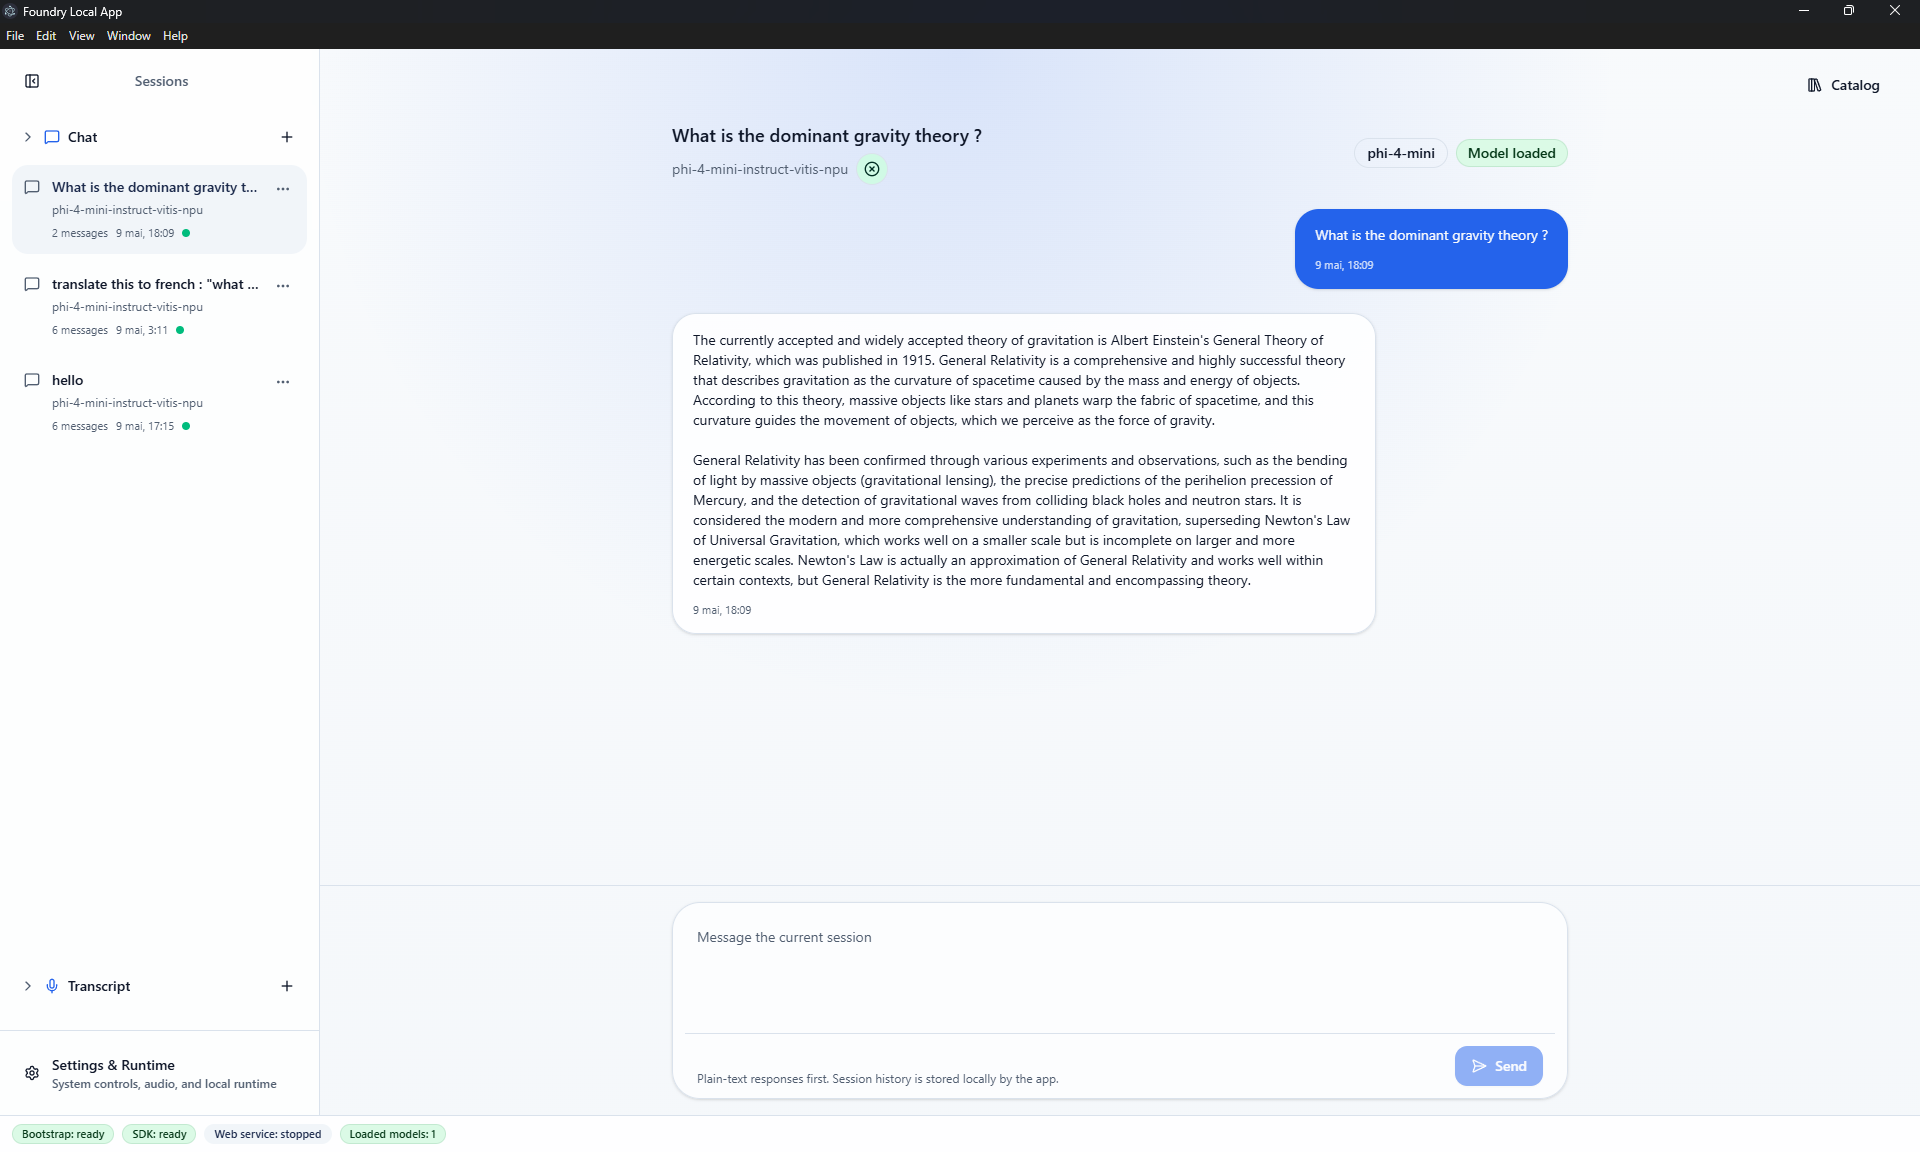
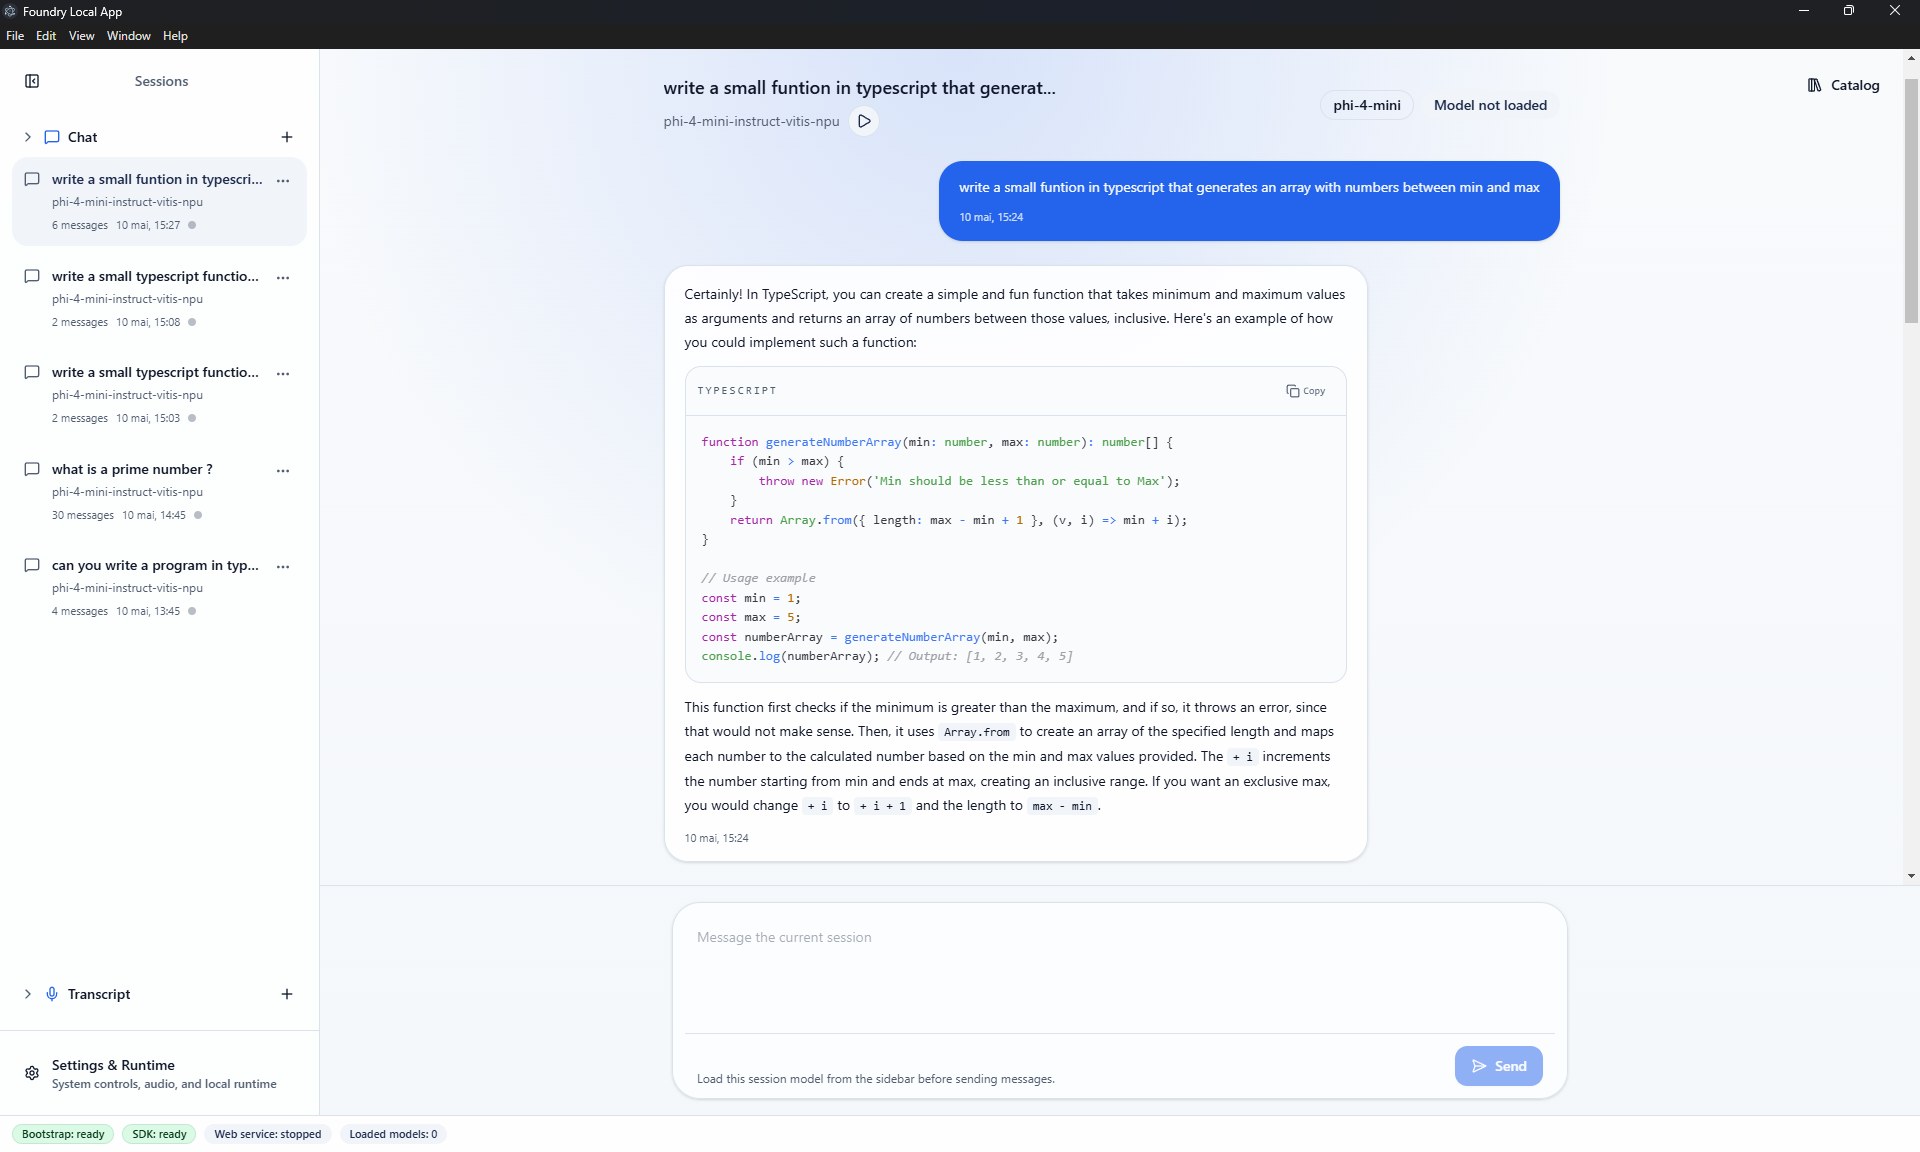
feat: enhance chat functionality with Markdown rendering and syntax-highlighted code blocks

diff --git a/README.md b/README.md
@@ -16,6 +16,7 @@ Foundry Local App packages the SDK behind a native Electron shell and a modern R
 - Browse the local Foundry model catalog with rich metadata.
 - Download, remove, load, and unload models from the same Catalog experience.
 - Manage persisted chat sessions backed by downloaded local models.
+- Render Chat assistant responses as Markdown with syntax-highlighted code blocks and one-click copy actions.
 - Capture live local audio transcription with persisted transcript sessions and audio settings.
 - Inspect runtime status, web service state, and execution provider registration.
 - Package the app for Windows and publish signed `.msix` releases with GitHub Actions.
@@ -24,7 +25,14 @@ Foundry Local App packages the SDK behind a native Electron shell and a modern R
 
 ### Chat
 
-Run local conversations against downloaded models with persistent session history and clear model state. The Chat page is built for fast iteration, letting you reopen prior threads, keep context across restarts, and move from model selection to response generation in a single workspace.
+Run local conversations against downloaded models with persistent session history, clear model state, and richer response rendering.
+
+Chat highlights:
+
+- 💬 Persistent local chat sessions
+- 📝 Assistant responses rendered as Markdown
+- 🎨 Syntax-highlighted fenced code blocks
+- 📋 One-click copy for generated code blocks
 
 ![Chat view](./docs/chat.png)
 
@@ -176,6 +184,7 @@ Implemented or actively targeted:
 - Catalog browsing and local model management
 - Downloaded-model filtering and loaded-state badges
 - Persisted local chat sessions
+- Markdown chat rendering with syntax-highlighted code blocks and easy copy/paste
 - Live audio transcription with persisted transcript sessions
 - Runtime and web service controls
 - Execution provider discovery and registration
